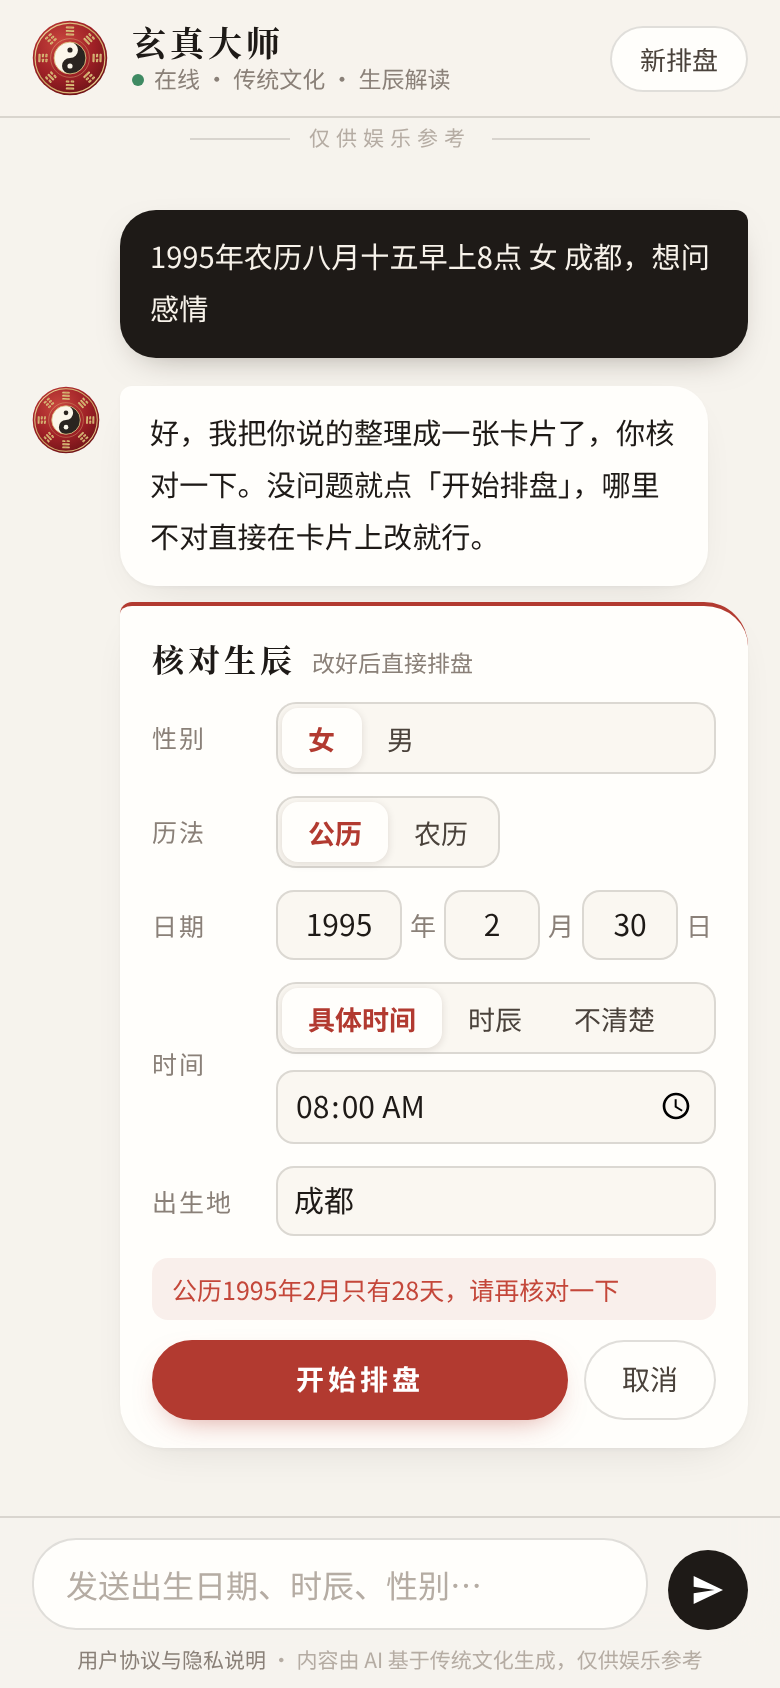
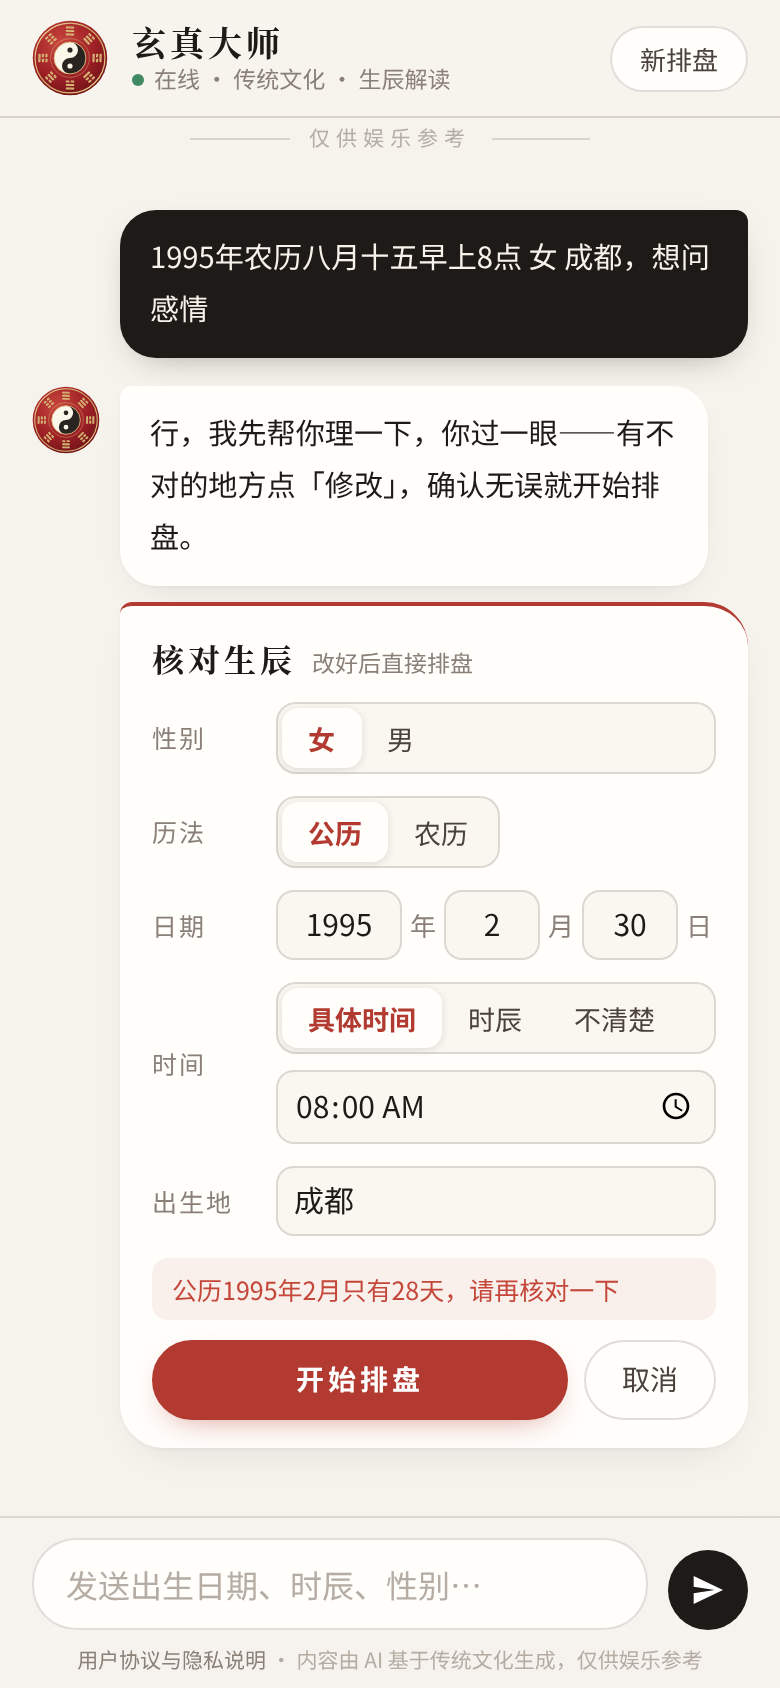
Separate light rate-limit bucket for profile/conversation actions; distinct intro after editing a confirmed profile

Changed region(s): [[0.1846, 0.2464, 0.8615, 0.3389]]

diff --git a/apps/server/src/server.ts b/apps/server/src/server.ts
@@ -36,11 +36,12 @@ app.use(express.static(WEB, {
 
 const json = (limit: number | string) => express.json({ limit });
 const smallJson = json(rateLimit.MAX_BODY_BYTES);
-const limited = (req: Request, res: Response, next: NextFunction) => {
-  const r = rateLimit.check(req.ip);
+const limiter = (bucket: 'llm' | 'light') => (req: Request, res: Response, next: NextFunction) => {
+  const r = rateLimit.check(req.ip, bucket);
   if (r.ok) return next();
   res.set('Retry-After', String(r.retryAfter)).status(429).json({ error: r.reason });
 };
+const limited = limiter('llm'), light = limiter('light');
 const wrap = (fn: (req: Request, res: Response) => Promise<any>) => async (req: Request, res: Response) => {
   try { const out = await fn(req, res); if (out !== undefined && !res.headersSent) res.json(out); }
   catch (e) { console.error(e); if (!res.headersSent) res.status(e.status || 500).json({ error: e.status ? e.message : '服务器开小差了，请稍后再试' }); }
@@ -142,14 +143,14 @@ const optCid = (v: any) => (typeof v === 'string' && CID_RE.test(v) ? v : null);
 const nowYearOf = (b: any) => (+b?.nowYear >= 1900 && +b?.nowYear <= 2200 ? +b.nowYear : new Date().getFullYear());
 const birthKey = (p: any) => [p.gender, p.calendar, p.year, p.month, p.day, p.leap ? 1 : 0, JSON.stringify(p.time || null), p.city || ''].join('|');
 
-app.post('/api/v1/conversations', limited, wrap(async (req) => {
+app.post('/api/v1/conversations', light, wrap(async (req) => {
   const uid = needUser(req); await store.ensureUser(uid);
   const cid = crypto.randomBytes(12).toString('base64url');
   await store.ensureConversation(uid, cid);
   return { cid };
 }));
 app.get('/api/v1/profiles', wrap(async (req) => ({ profiles: await store.getProfiles(needUser(req)) })));
-app.post('/api/v1/profiles', smallJson, limited, wrap(async (req, res) => {
+app.post('/api/v1/profiles', smallJson, light, wrap(async (req, res) => {
   const uid = needUser(req); await store.ensureUser(uid);
   const v = validateProfile(req.body?.profile, nowYearOf(req.body));
   if (v.error) { res.status(422); return { error: v.error }; }
@@ -158,7 +159,7 @@ app.post('/api/v1/profiles', smallJson, limited, wrap(async (req, res) => {
   console.log(`[profile] create ${uid} ${id}`);
   return { profile: { ...v.profile, id }, chart: v.chart, intro: readingIntro(v.profile, v.chart) };
 }));
-app.patch('/api/v1/profiles/:id', smallJson, limited, wrap(async (req, res) => {
+app.patch('/api/v1/profiles/:id', smallJson, light, wrap(async (req, res) => {
   const uid = needUser(req);
   const cur = await store.getProfile(uid, String(req.params.id));
   if (!cur) { res.status(404); return { error: '档案不存在' }; }
@@ -168,7 +169,7 @@ app.patch('/api/v1/profiles/:id', smallJson, limited, wrap(async (req, res) => {
   const id = await store.updateProfile(uid, cur.id, birthKey(v.profile), v.profile, v.chart);
   await recordProfileEvent(uid, optCid(req.body?.cid), v.profile, v.chart, `用户修改并确认了生辰信息：${profileLine(v.profile)}`);
   console.log(`[profile] update ${uid} ${id}`);
-  return { profile: { ...v.profile, id }, chart: v.chart, intro: readingIntro(v.profile, v.chart) };
+  return { profile: { ...v.profile, id }, chart: v.chart, intro: readingIntro(v.profile, v.chart, true) };
 }));
 // 详批：SSE / ?stream=0 / ?mode=poll
 app.post('/api/v1/profiles/:id/reading', smallJson, limited, async (req, res) => {

diff --git a/apps/server/src/ratelimit.ts b/apps/server/src/ratelimit.ts
@@ -1,17 +1,22 @@
 // 简单的内存级按 IP 限流（单实例有效；多实例/云函数冷启动会各自计数，足以挡住普通刷接口）。
 // RATE_LIMIT_PER_MIN（默认 8）、RATE_LIMIT_PER_DAY（默认 100）、MAX_BODY_BYTES（默认 64KB，含聊天历史）
-const perMin = +(process.env.RATE_LIMIT_PER_MIN || 8);
-const perDay = +(process.env.RATE_LIMIT_PER_DAY || 100);
+const PER_MIN = +(process.env.RATE_LIMIT_PER_MIN || 8);
+const PER_DAY = +(process.env.RATE_LIMIT_PER_DAY || 100);
 const hits = new Map<string, number[]>(); // ip -> [timestamps]
 const DAY = 86400000, MIN = 60000;
 
-function check(ip = 'unknown') {
+// 轻量操作（建档 / 改档 / 新对话，不调用大模型）单独计数，避免挤占大模型额度
+const LIGHT = { min: +(process.env.RATE_LIMIT_LIGHT_PER_MIN || 30), day: +(process.env.RATE_LIMIT_LIGHT_PER_DAY || 500) };
+
+function check(ip = 'unknown', bucket: 'llm' | 'light' = 'llm') {
   const now = Date.now();
-  const arr = (hits.get(ip) || []).filter((t) => now - t < DAY);
+  const perMin = bucket === 'light' ? LIGHT.min : PER_MIN, perDay = bucket === 'light' ? LIGHT.day : PER_DAY;
+  const key = bucket === 'light' ? `l:${ip}` : ip;
+  const arr = (hits.get(key) || []).filter((t) => now - t < DAY);
   const lastMin = arr.filter((t) => now - t < MIN).length;
   if (lastMin >= perMin) return { ok: false, retryAfter: Math.ceil((MIN - (now - arr.filter((t) => now - t < MIN)[0])) / 1000), reason: '请求太频繁了，请稍等一分钟再试' };
   if (arr.length >= perDay) return { ok: false, retryAfter: 3600, reason: '今日次数已用完，请明天再来' };
-  arr.push(now); hits.set(ip, arr);
+  arr.push(now); hits.set(key, arr);
   if (hits.size > 10000) for (const [k, v] of hits) if (!v.length || now - v[v.length - 1] > DAY) hits.delete(k);
   return { ok: true };
 }

diff --git a/apps/server/src/chat.ts b/apps/server/src/chat.ts
@@ -320,9 +320,9 @@ const CARD_LINES = [
 ];
 
 /** 排盘后的第一句话（含真太阳时校正说明） */
-function readingIntro(prof, chart) {
+function readingIntro(prof, chart, edited = false) {
   const ts = chart.trueSolar;
-  return `好了，${prof.name ? prof.name + '，' : ''}你的盘排出来了，你先看看${ts ? `\n（按${ts.city}真太阳时校正：${ts.time.slice(11, 16)}，${chart.lunar.split(' ').pop()}）` : ''}`;
+  return `${edited ? `好，按改过的生辰（${profileLine({ ...prof, topics: [] })}）重新排了一盘，你看看` : `好了，${prof.name ? prof.name + '，' : ''}你的盘排出来了，你先看看`}${ts ? `\n（按${ts.city}真太阳时校正：${ts.time.slice(11, 16)}，${chart.lunar.split(' ').pop()}）` : ''}`;
 }
 
 /** 一行生辰摘要（用于系统事件 / 记忆） */
